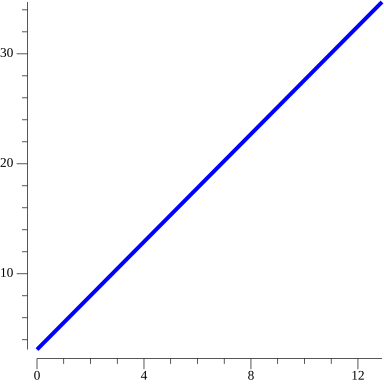
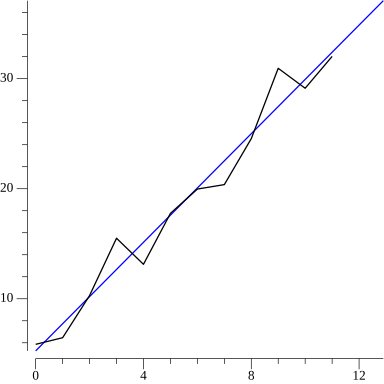
fixed plot presentation

diff --git a/lb3/main.go b/lb3/main.go
@@ -15,10 +15,10 @@ import (
 )
 
 const (
-	N    = 12
+	N    = 2
 	k    = float32(2.45)
 	b    = float32(3.11)
-	seed = 100
+	seed = 1100
 )
 
 func CombinePoints(x, y []float32) []shared.Point {
@@ -35,9 +35,15 @@ func BuildPlot(coords []shared.Point, fns struct {
 	Y_X func(x float32) float32
 	X_Y func(y float32) float32
 }, step float32, top int) {
+	var actual Plotter.XYs
 	var y_x_plot Plotter.XYs
 	var x_y_plot Plotter.XYs
 	var plot = Plot.New()
+
+	for i := 0; i < len(coords); i++ {
+		var coord = coords[i]
+		actual = append(actual, Plotter.XY{X: float64(coord.X), Y: float64(coord.Y)})
+	}
 
 	for i_step := float32(0); i_step < float32(top); i_step += step {
 		var i_y = fns.Y_X(i_step)
@@ -47,23 +53,25 @@ func BuildPlot(coords []shared.Point, fns struct {
 	}
 
 	y_x_line, _ := Plotter.NewLine(y_x_plot)
-	x_y_line, _ := Plotter.NewLine(x_y_plot)
-	y_x_scatter, _ := Plotter.NewScatter(y_x_plot)
-	x_y_scatter, _ := Plotter.NewScatter(x_y_plot)
+	// x_y_line, _ := Plotter.NewLine(x_y_plot)
+	actual_line, _ := Plotter.NewLine(actual)
+	// y_x_scatter, _ := Plotter.NewScatter(y_x_plot)
+	// x_y_scatter, _ := Plotter.NewScatter(x_y_plot)
 
 	y_x_line.Color = color.RGBA{R: 0, G: 0, B: 255, A: 255}
-	y_x_line.LineStyle.Width = vg.Points(3)
+	y_x_line.LineStyle.Width = vg.Points(1)
 
-	x_y_line.Color = color.RGBA{R: 0, G: 255, B: 255, A: 255}
-	x_y_line.LineStyle.Width = vg.Points(3)
+	// x_y_line.Color = color.RGBA{R: 0, G: 255, B: 255, A: 255}
+	// x_y_line.LineStyle.Width = vg.Points(3)
 
-	y_x_scatter.Color = color.RGBA{R: 0, G: 0, B: 255, A: 255}
-	y_x_scatter.Radius = 6
+	// y_x_scatter.Color = color.RGBA{R: 0, G: 0, B: 255, A: 255}
+	// y_x_scatter.Radius = 6
 
-	x_y_scatter.Color = color.RGBA{R: 0, G: 255, B: 255, A: 255}
-	x_y_scatter.Radius = 6
+	// x_y_scatter.Color = color.RGBA{R: 0, G: 255, B: 255, A: 255}
+	// x_y_scatter.Radius = 6
 
 	plot.Add(y_x_line)
+	plot.Add(actual_line)
 	// plot.Add(x_y_line)
 	// plot.Add(y_x_scatter)
 	// plot.Add(x_y_scatter)
@@ -75,19 +83,20 @@ func BuildPlot(coords []shared.Point, fns struct {
 
 func main() {
 	// task specific code. has nothing related to real life
-	var deviation = float32(N) / 5
+	var deviation = float32(N + 10) / 5
 	var slice_length int = N + 10
 	eq := LinearEquation.Make(k, b)
 
 	// x,y - data that we have normally in real world (eg temp-date relation). always treated as noise
 	noise := NormNoise.Make(deviation, int64(seed))
-	var x = noise.GenerateSlice(slice_length)
-	var y = eq.GetSlice(x)
+	var x = noise.GenerateLinearSequence(slice_length)
+	var noised_values = noise.GenerateSlice(slice_length)
+	var y = eq.ForSlice(x).ApplyNoise(noised_values)
 	var coords = CombinePoints(x, y)
 
 	// regress coordinates
 	var linearRegression = Regression.Make(shared.PointArrayToIPointArray(coords))
 	var fns = linearRegression.CalculateRegresionEquations()
 
-	BuildPlot(coords, fns, float32(0.1), N+1)
+	BuildPlot(coords, fns, float32(0.1), slice_length+1)
 }

diff --git a/shared/models/LinearEquation/LinearEquation.go b/shared/models/LinearEquation/LinearEquation.go
@@ -3,6 +3,8 @@ package shared
 type LinearEquation struct {
 	k float32
 	b float32
+
+	forSlice []float32
 }
 
 func Make(k, b float32) LinearEquation {
@@ -13,12 +15,23 @@ func (eq LinearEquation) GetSingle(x float32) float32 {
 	return eq.k*x + eq.b
 }
 
-func (eg LinearEquation) GetSlice(x []float32) []float32 {
+func (eg LinearEquation) ForSlice(x []float32) LinearEquation {
 	var result = []float32{}
 
 	for i := 0; i < len(x); i++ {
 		result = append(result, eg.GetSingle(x[i]))
 	}
 
-	return result
+	eg.forSlice = result
+
+	return eg
+}
+
+func (eg LinearEquation) ApplyNoise(noise []float32) []float32 {
+
+	for i := 0; i < len(eg.forSlice); i++ {
+		eg.forSlice[i] = eg.forSlice[i] + noise[i]
+	}
+
+	return eg.forSlice
 }

diff --git a/shared/models/NormNoise/NormNoise.go b/shared/models/NormNoise/NormNoise.go
@@ -15,12 +15,28 @@ func Make(deviation float32, seed int64) NormNoise {
 	return NormNoise{deviation: deviation, rnd: rnd}
 }
 
+func (noise *NormNoise) GenerateSingle() float32 {
+	return float32(math.Abs(noise.rnd.NormFloat64()))*noise.deviation
+}
+
 func (noise *NormNoise) GenerateSlice(end int) []float32 {
 	var result = []float32{}
 
 	for i := 0; i < end; i++ {
-		result = append(result, float32(math.Abs(noise.rnd.NormFloat64()))*noise.deviation)
+		result = append(result, noise.GenerateSingle())
 	}
 
 	return result
 }
+
+func (noise *NormNoise) GenerateLinearSequence(end int) []float32 {
+	var result = []float32{}
+
+	for i := 0; i < end; i++ {
+		result = append(result, float32(i))
+	}
+
+	return result
+}
+
+
